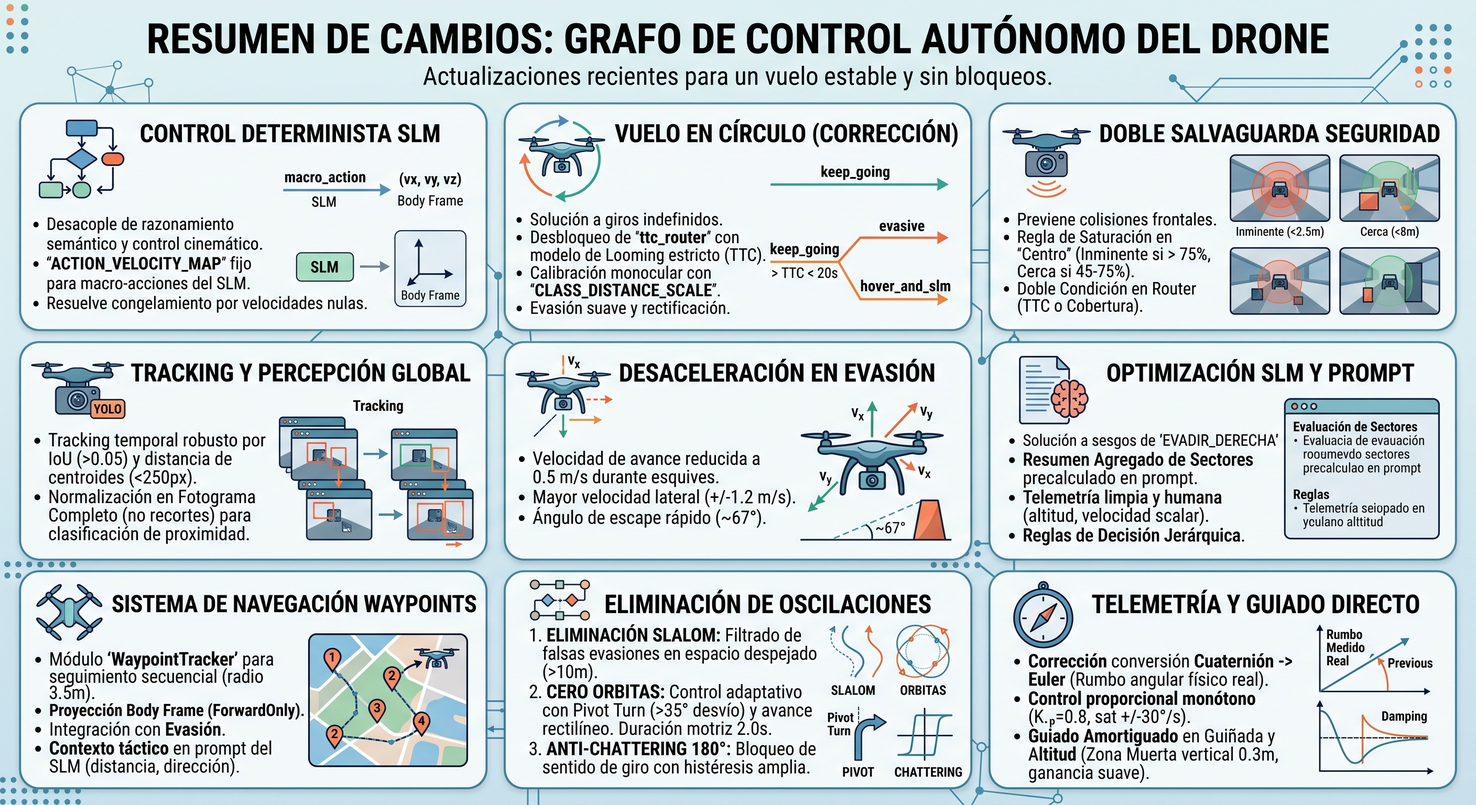
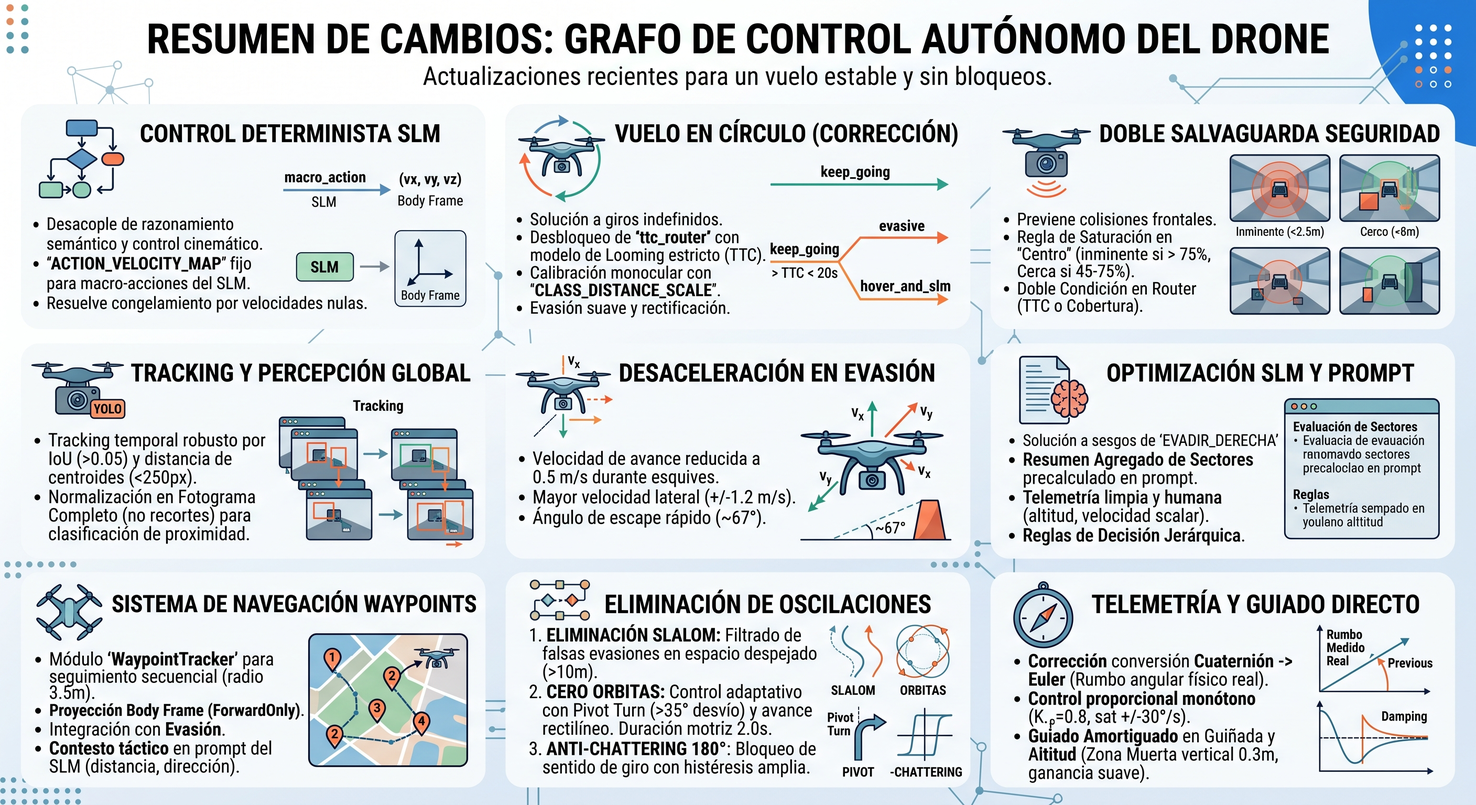
docs: update changelog badge and add technical documentation regarding autonomous control graph modifications

diff --git a/README.md b/README.md
@@ -28,7 +28,7 @@ a la fecha de la última actualización del CHANGELOG.
 #### Proyecto:
 
 [![License: MIT](https://img.shields.io/badge/License-MIT-yellow.svg)](LICENSE.md)
-[![Activity](https://img.shields.io/badge/CHANGELOG-2026--0812-teal)](CHANGELOG.md) 
+[![Activity](https://img.shields.io/badge/CHANGELOG-2026--0818-teal)](CHANGELOG.md) 
 [![Plan](https://img.shields.io/badge/Plan-Aprobado_2025--0829-drakgray)](./plan_tesis/plan-tesis.md)
 [![Objetivos](https://img.shields.io/badge/Ver-Objetivos-orange)](./plan_tesis/plan-tesis.md#objetivo-del-trabajo)
 
